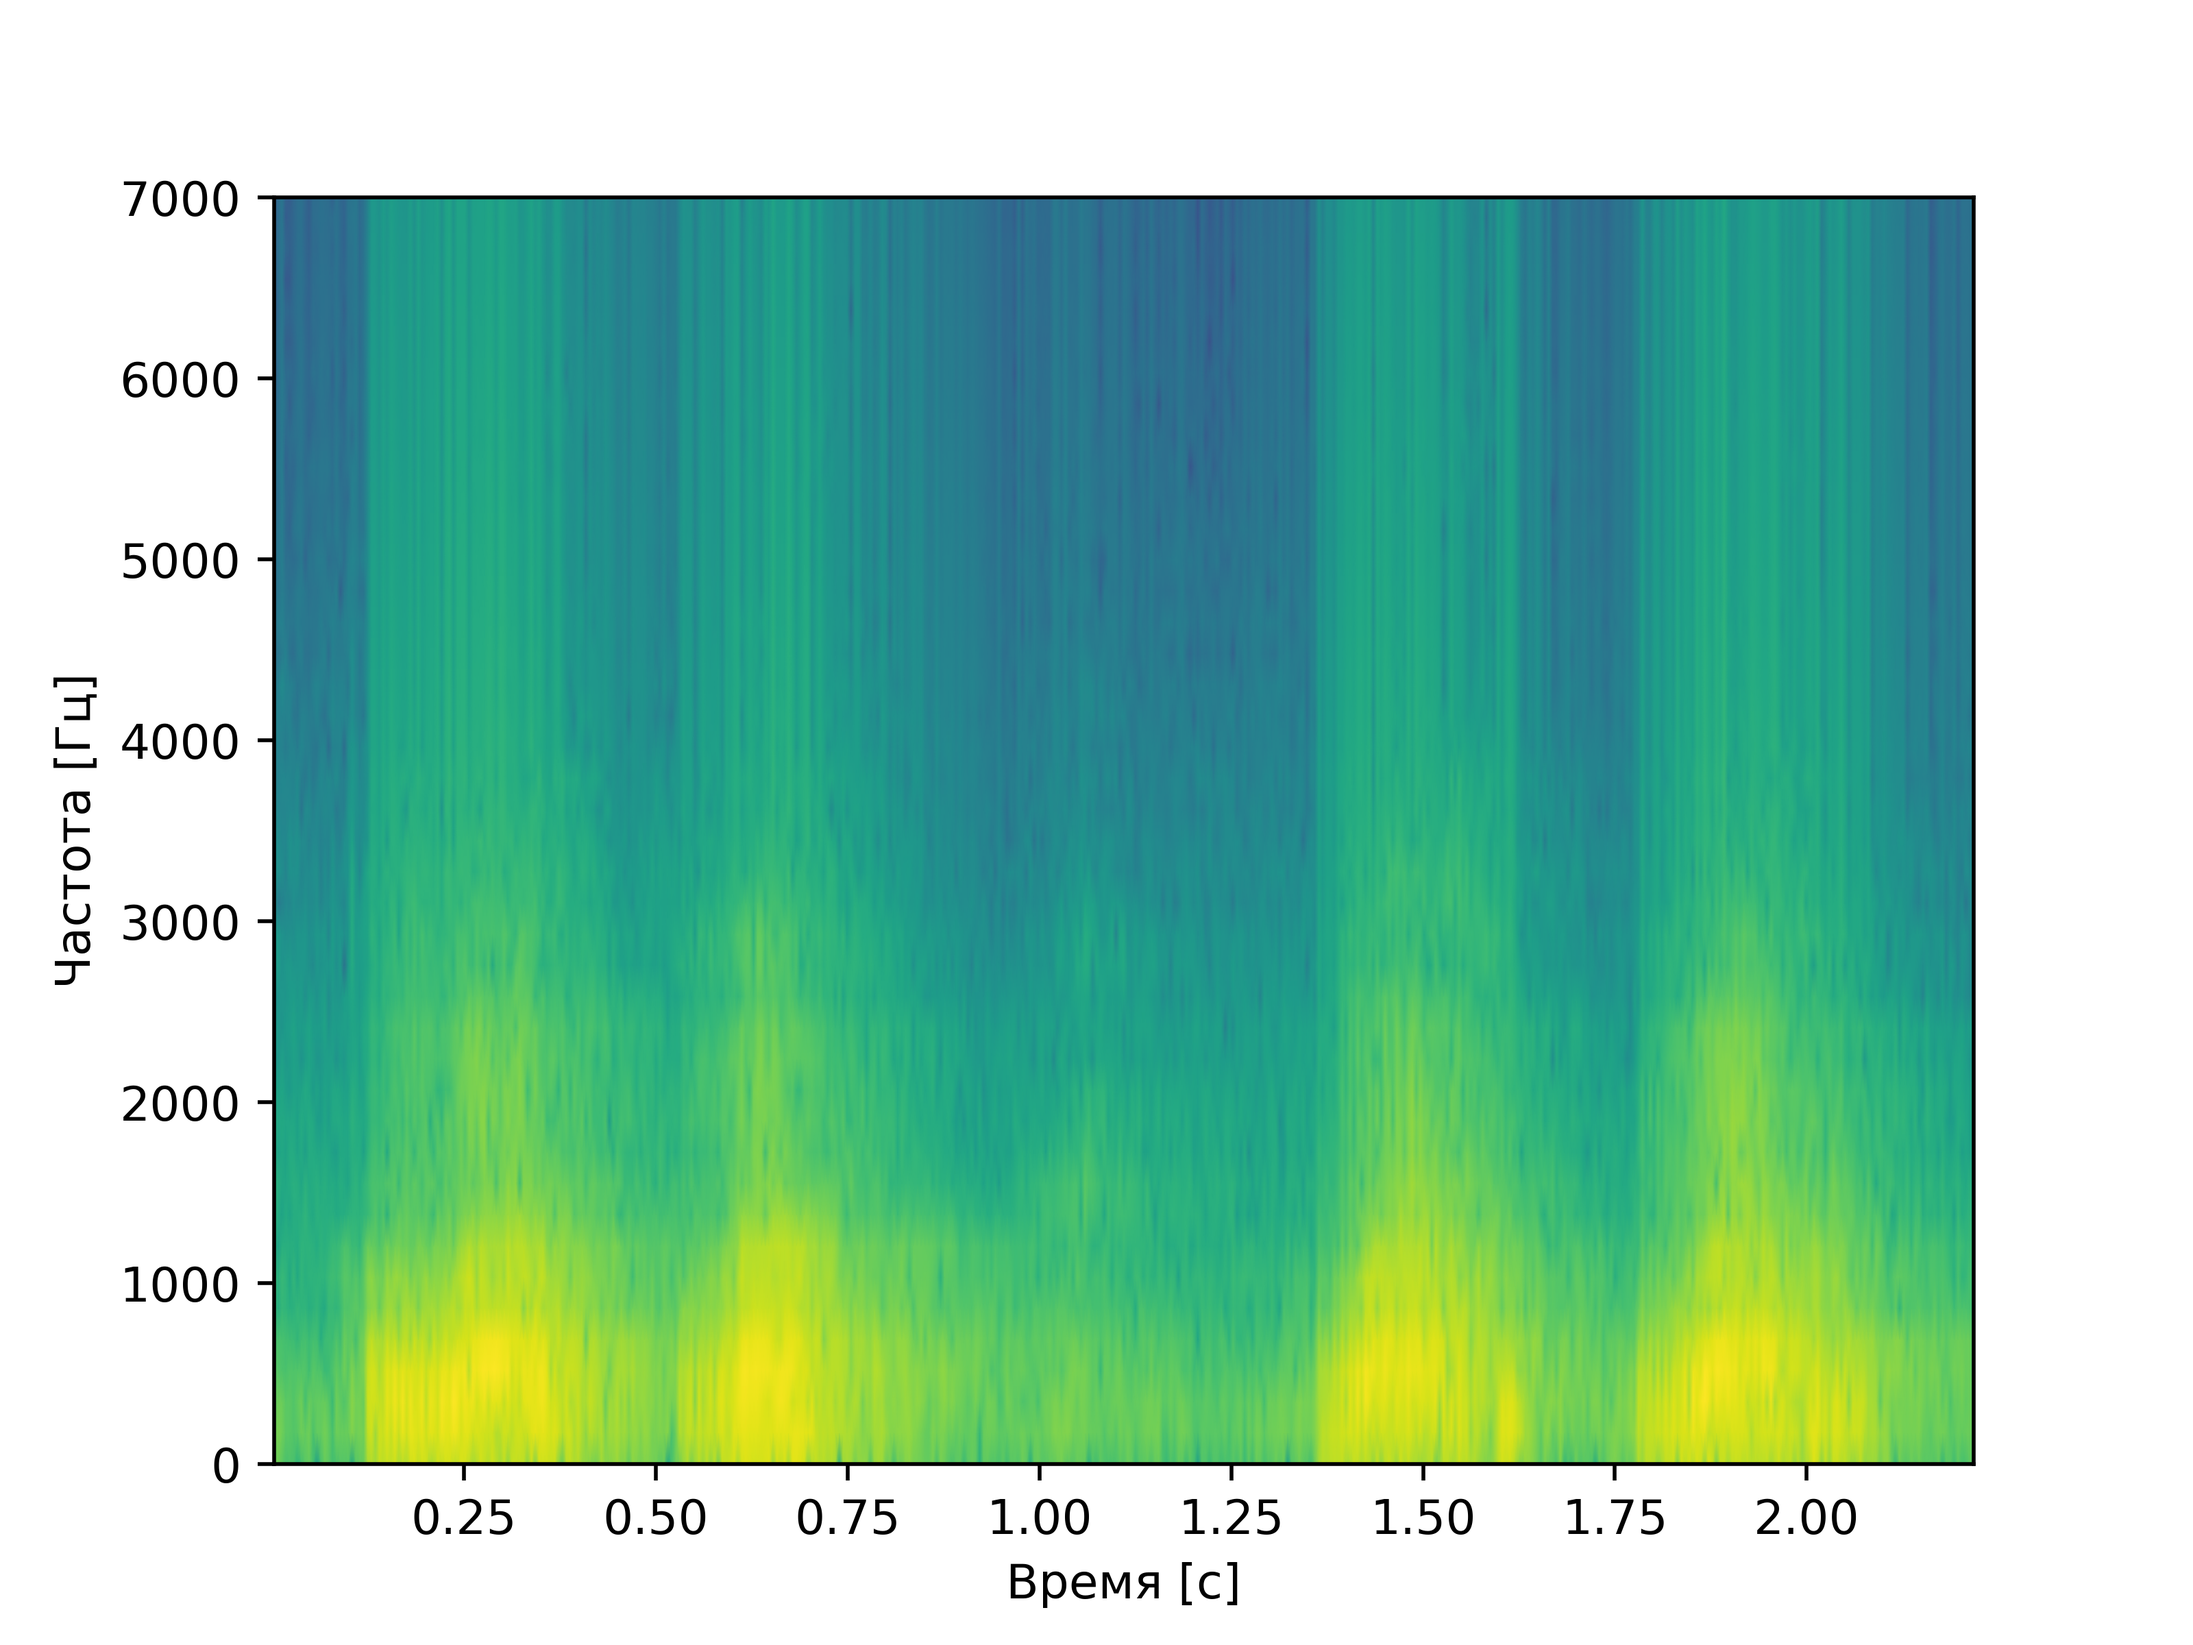
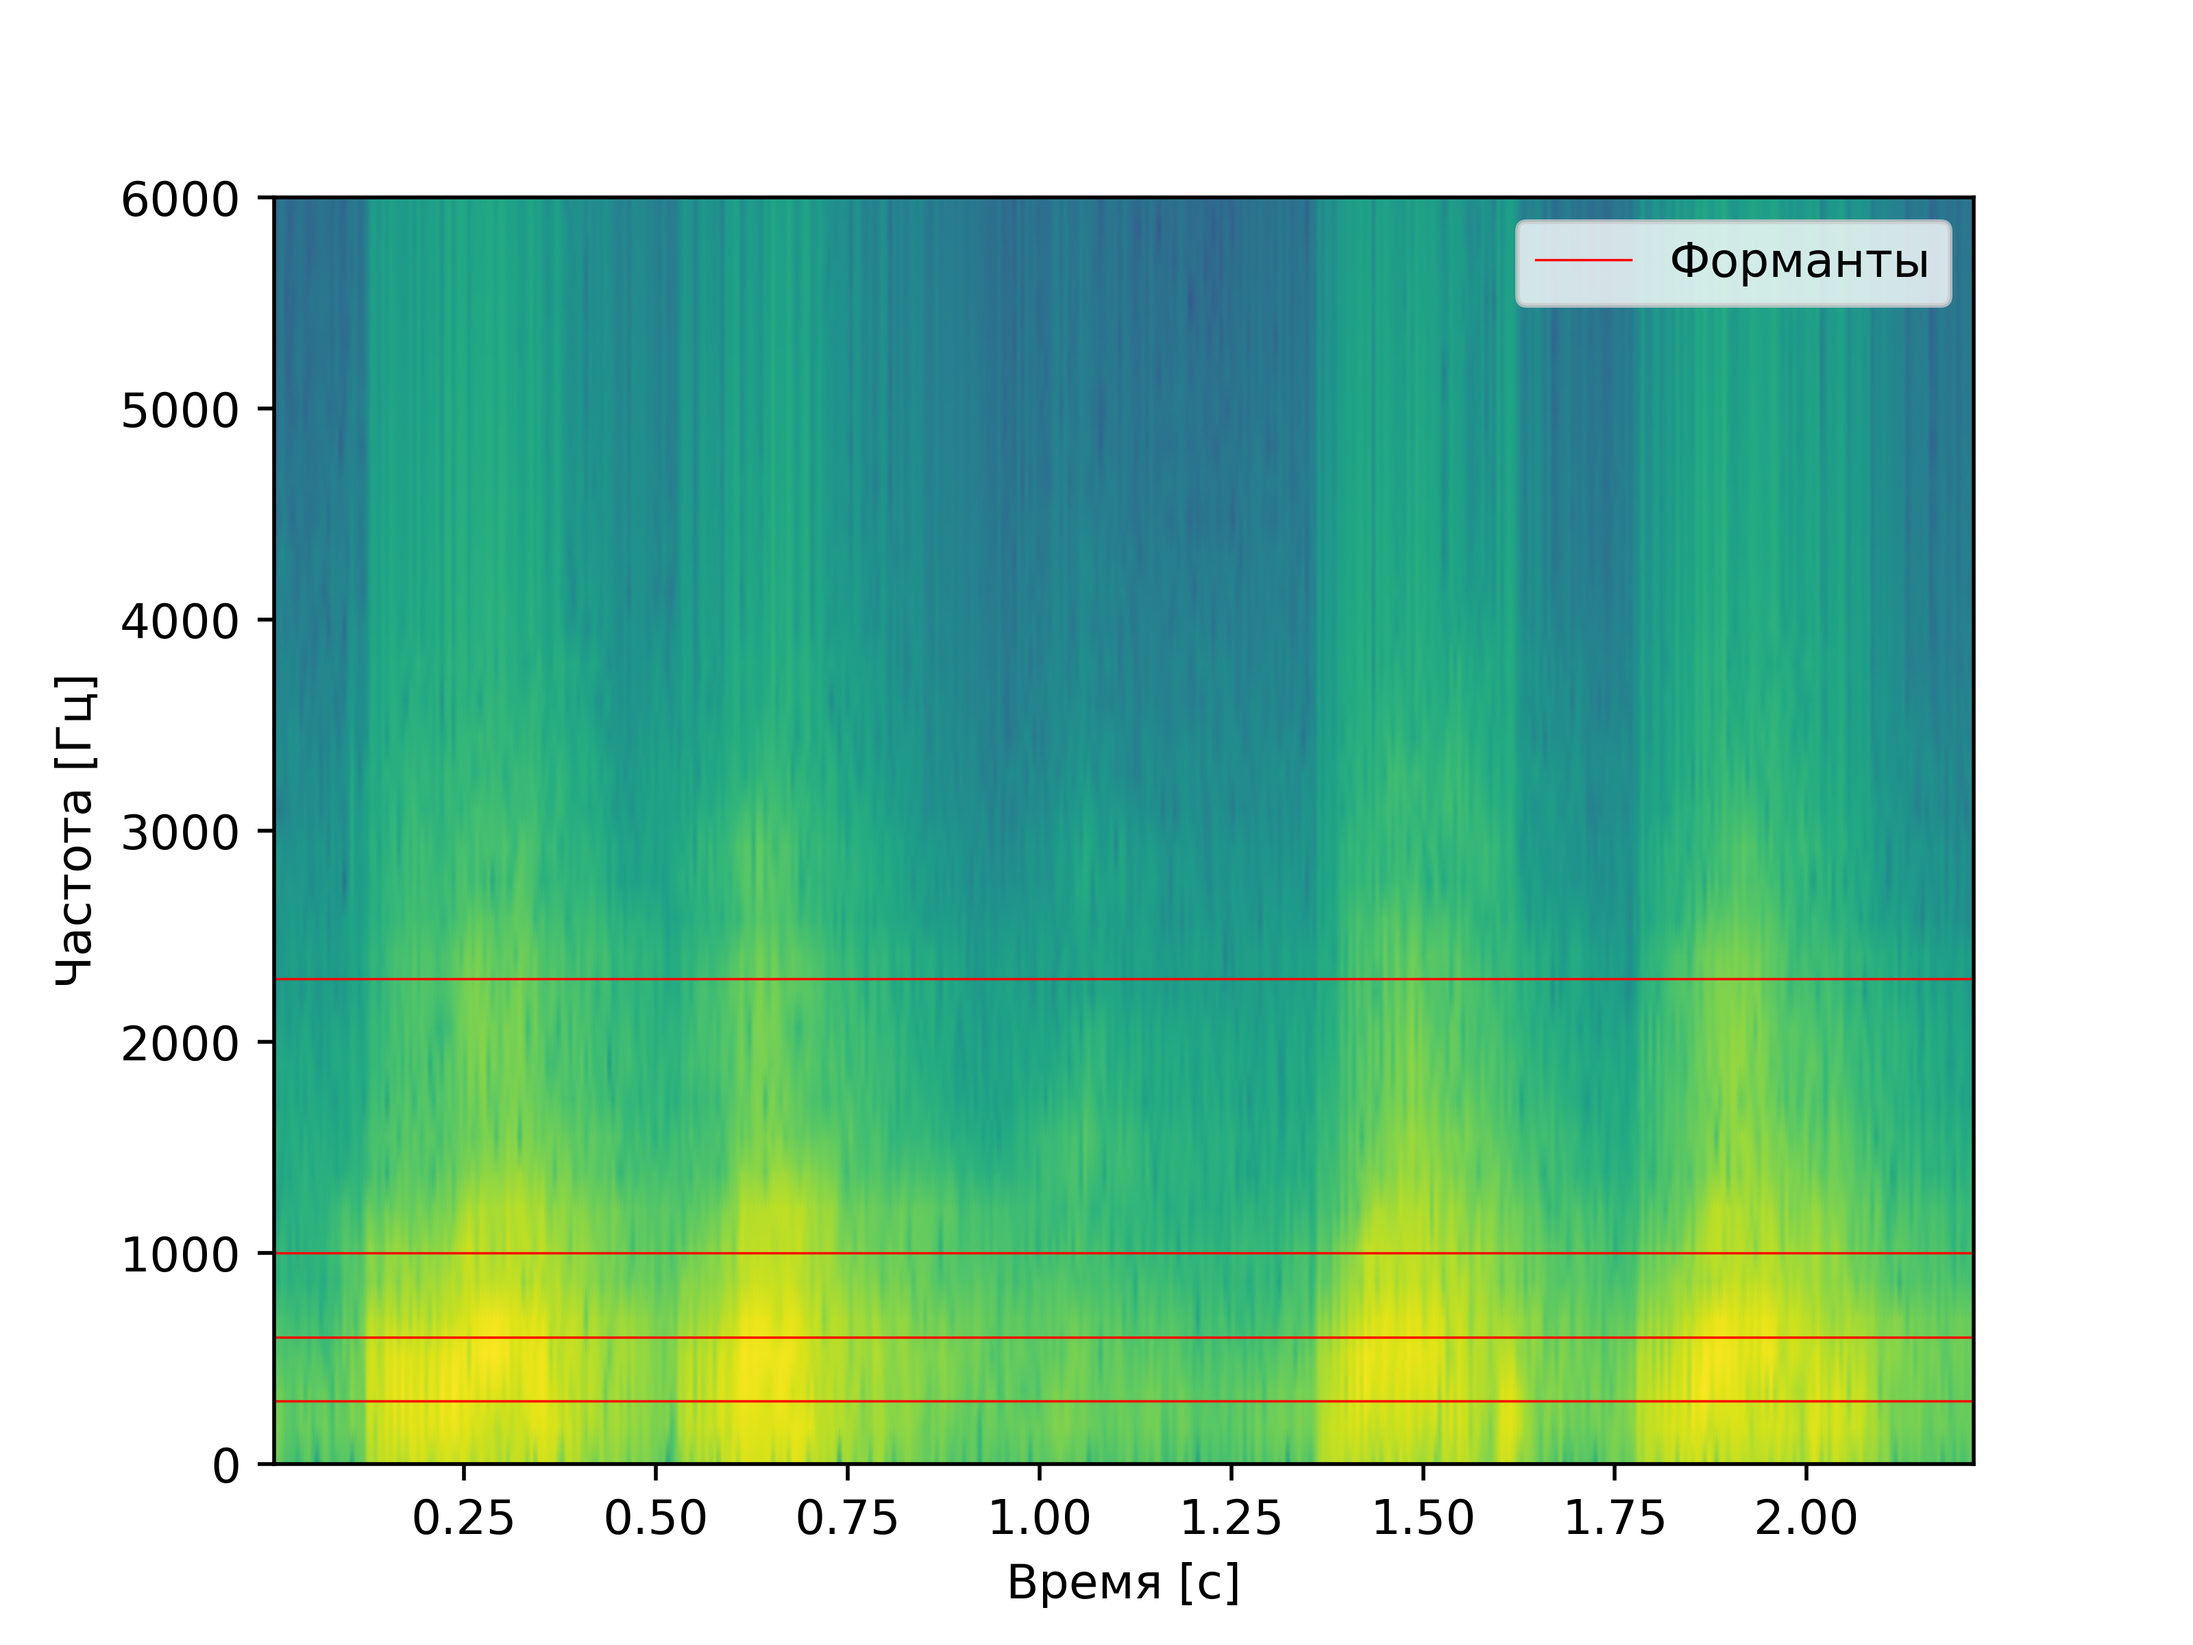
Add info about formants.

diff --git a/laba10/main.py b/laba10/main.py
@@ -36,7 +36,13 @@ if __name__ == '__main__':
     plt.clf()
 
     denoised = denoise(samples, sample_rate, cutoff_freuency = 4000)
-    spectrogram_plot(denoised, sample_rate, 7000)
+    spectrogram_plot(denoised, sample_rate, 6000)
+    plt.axhline(y = 300, color = 'r', linestyle = '-', lw= 0.5, label = "Форманты")
+    plt.axhline(y = 750, color = 'r', linestyle = '-', lw= 0.5)
+    plt.axhline(y = 1200, color = 'r', linestyle = '-', lw= 0.5)
+    plt.axhline(y = 2600, color = 'r', linestyle = '-', lw= 0.5)
+    plt.axhline(y = 3100, color = 'r', linestyle = '-', lw= 0.5)
+    plt.legend(bbox_to_anchor = (1.0, 1), loc = 'upper right')
     plt.savefig('results/denoised/denoised_a.png', dpi = dpi)
     plt.clf()
 
@@ -52,7 +58,12 @@ if __name__ == '__main__':
     plt.clf()
 
     denoised = denoise(samples, sample_rate, cutoff_freuency = 4000)
-    spectrogram_plot(denoised, sample_rate, 7000)
+    spectrogram_plot(denoised, sample_rate, 6000)
+    plt.axhline(y = 250, color = 'r', linestyle = '-', lw= 0.5, label = "Форманты")
+    plt.axhline(y = 2000, color = 'r', linestyle = '-', lw= 0.5)
+    plt.axhline(y = 2800, color = 'r', linestyle = '-', lw= 0.5)
+    plt.axhline(y = 3300, color = 'r', linestyle = '-', lw= 0.5)
+    plt.legend(bbox_to_anchor = (1.0, 1), loc = 'upper right')
     plt.savefig('results/denoised/denoised_i.png', dpi = dpi)
     plt.clf()
 
@@ -67,8 +78,12 @@ if __name__ == '__main__':
     plt.clf()
 
     denoised = denoise(samples, sample_rate, cutoff_freuency = 4000, passes = 2)
-    spectrogram_plot(denoised, sample_rate, 7000)
-    # print("For \"Gav\" min frequency is", mn,", and max is", mx)
+    spectrogram_plot(denoised, sample_rate, 6000)
+    plt.axhline(y = 300, color = 'r', linestyle = '-', lw= 0.5, label = "Форманты")
+    plt.axhline(y = 600, color = 'r', linestyle = '-', lw= 0.5)
+    plt.axhline(y = 1000, color = 'r', linestyle = '-', lw= 0.5)
+    plt.axhline(y = 2300, color = 'r', linestyle = '-', lw= 0.5)
+    plt.legend(bbox_to_anchor = (1.0, 1), loc = 'upper right')
     plt.savefig('results/denoised/denoised_gav.png', dpi = dpi)
     plt.clf()
 

diff --git a/laba10/README.md b/laba10/README.md
@@ -9,10 +9,21 @@
 ![](results/denoised/denoised_a.png)
 
 ### Анализ
-
+**Форманты:** форманта **FI** находится на частоте примерно 300 Гц, **FII** на частоте примерно 750 Гц,
+**FIII** на частоте 1200 Гц. После них идет провал,
+и следующие неосновные две форманты появляются на частотах
+приблизительно в 2600 Гц и 3100 Гц
 
 ## Спектрограмма записи звука "И" по наростающей
 ![](results/denoised/denoised_i.png)
 
+### Анализ
+**Форманты:** основная форманта **FI** находится на частоте примерно 250 Гц, далее, после провала прослеживается **FII** на частоте примерно 2000 Гц, еще выше  **FIII** на частоте 2800 Гц. После можно различить
+**FIV** на частоте 3300 Гц.
+
 ## Спектрограмма записи лая
 ![](results/denoised/denoised_gav.png)
+
+### Анализ
+**Форманты:** в целом похожи на форманты буквы "А", но по частоте ниже: первая основная **FI** 300 Гц, вторая основная **FII** - 600 Гц, третья основная **FIII** - 1000 Гц.
+Так же просматривается еще одна неосновная на частоте 2300 Гц.
